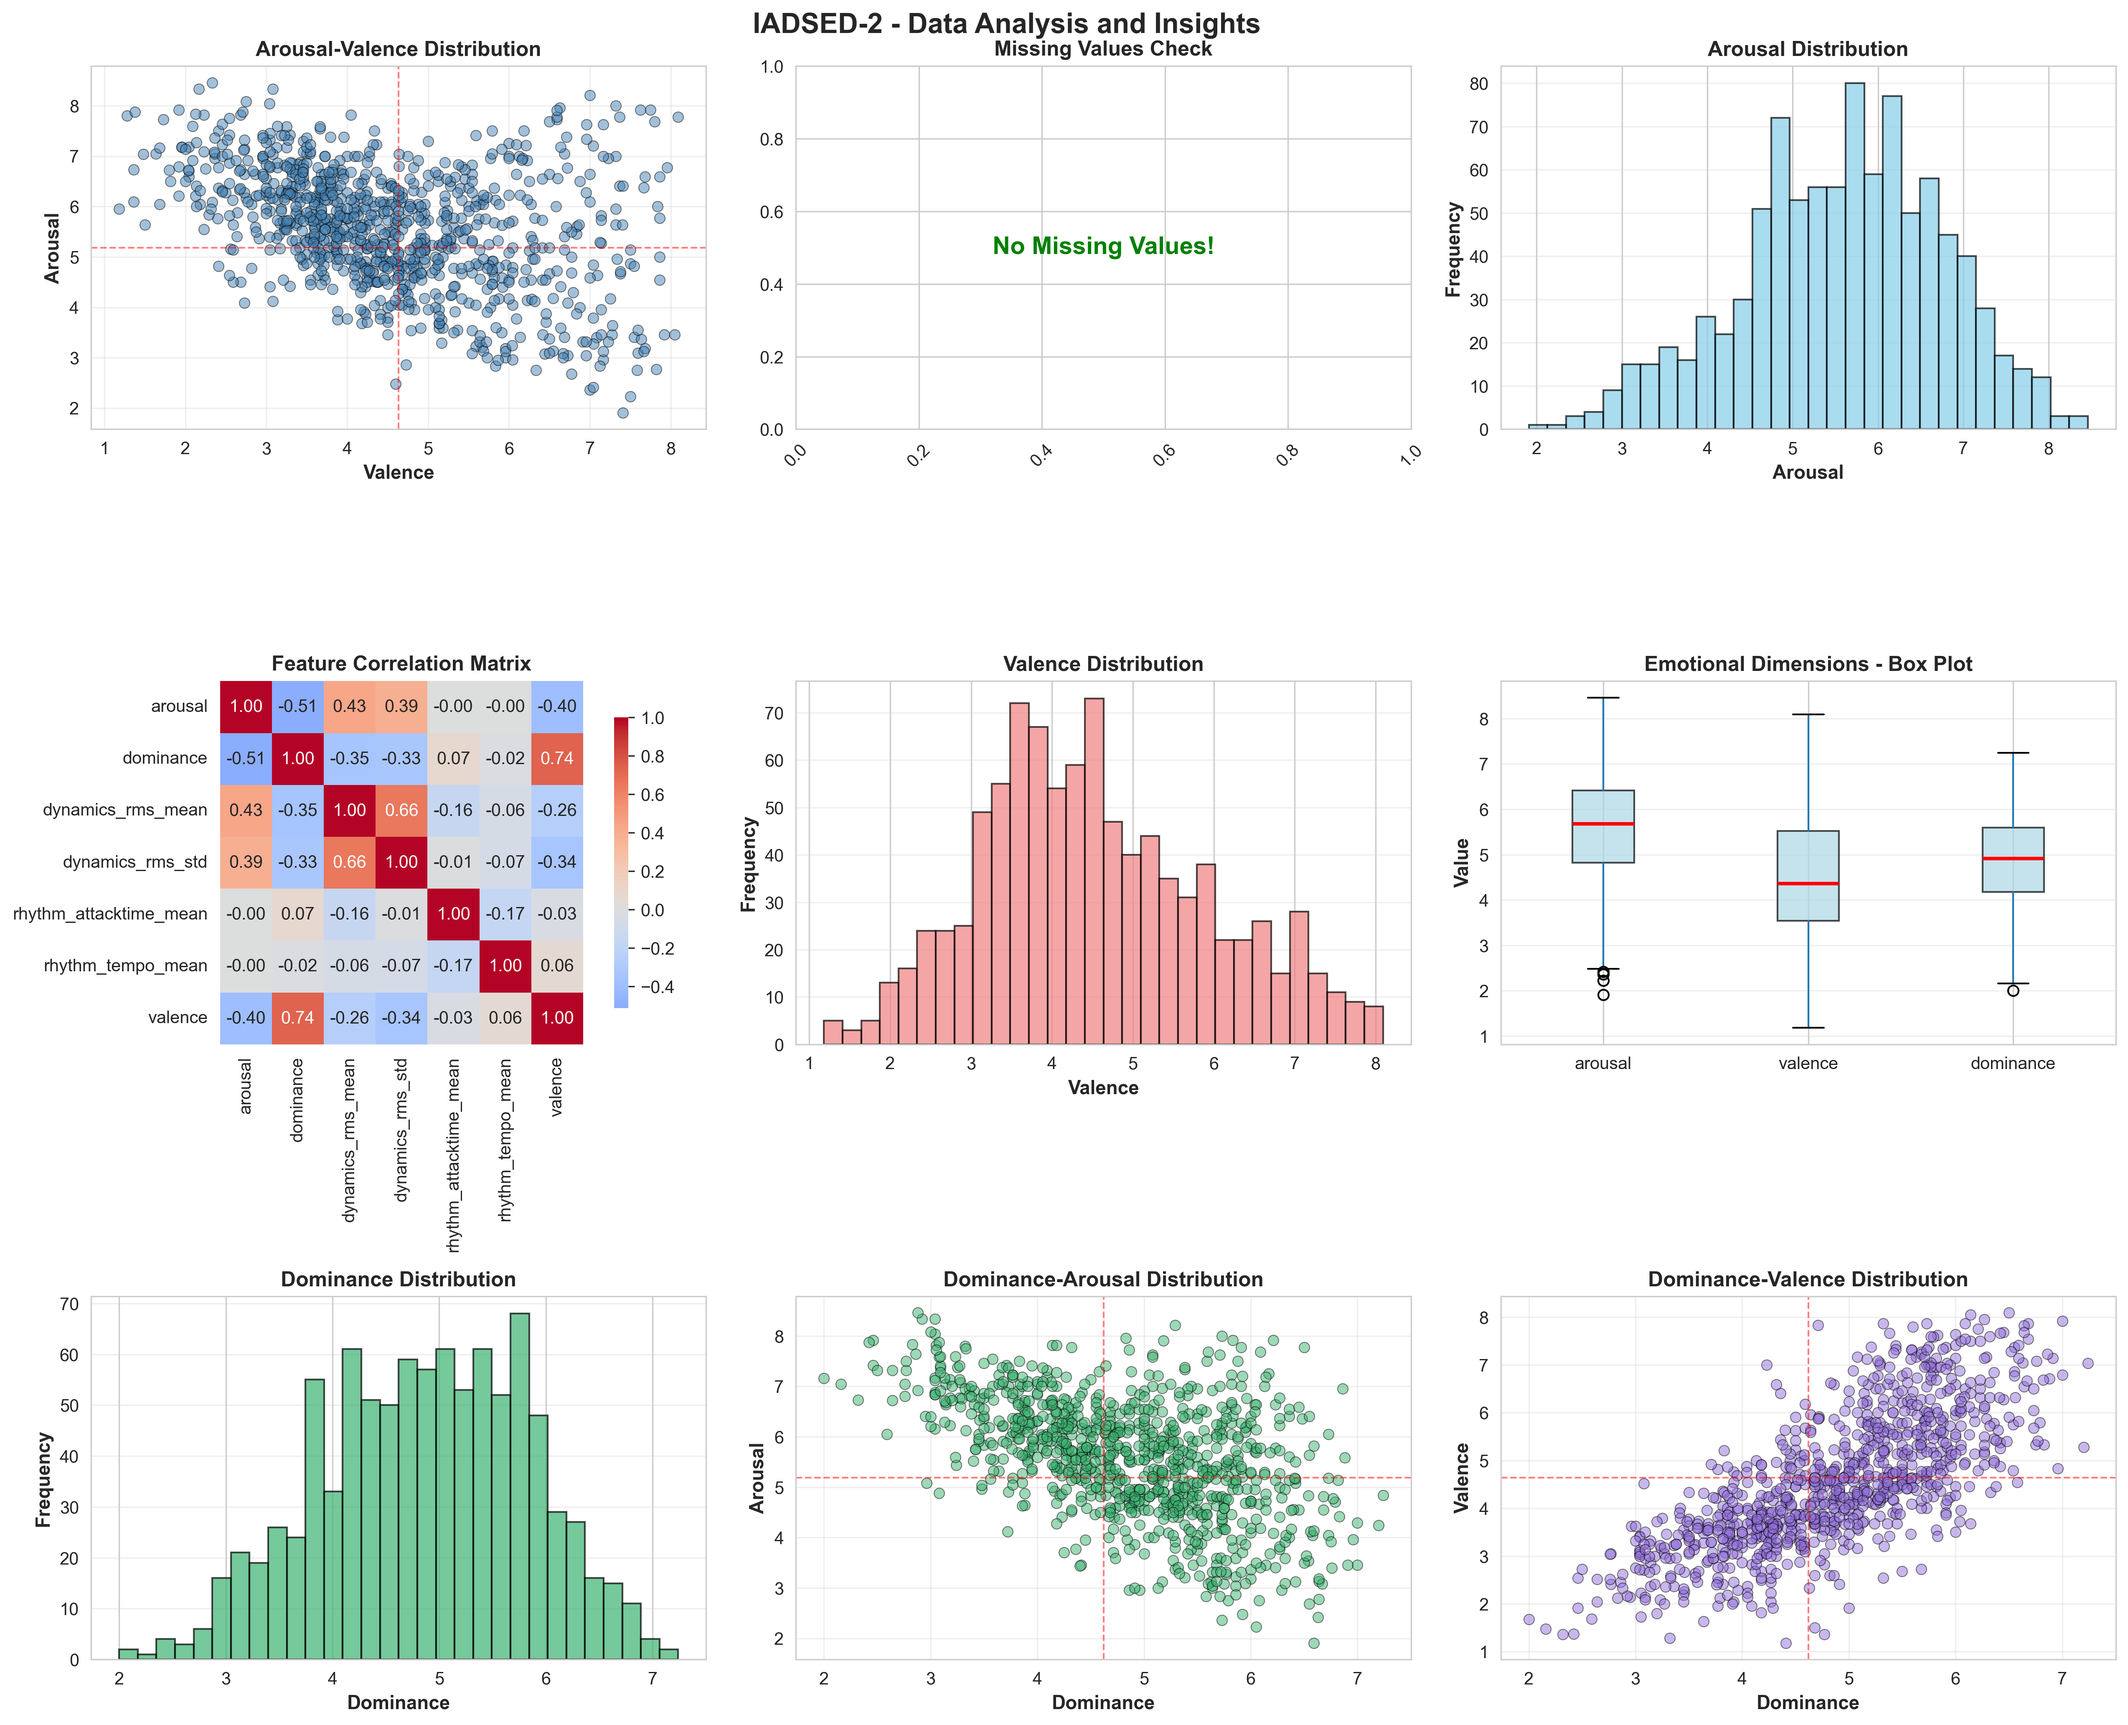
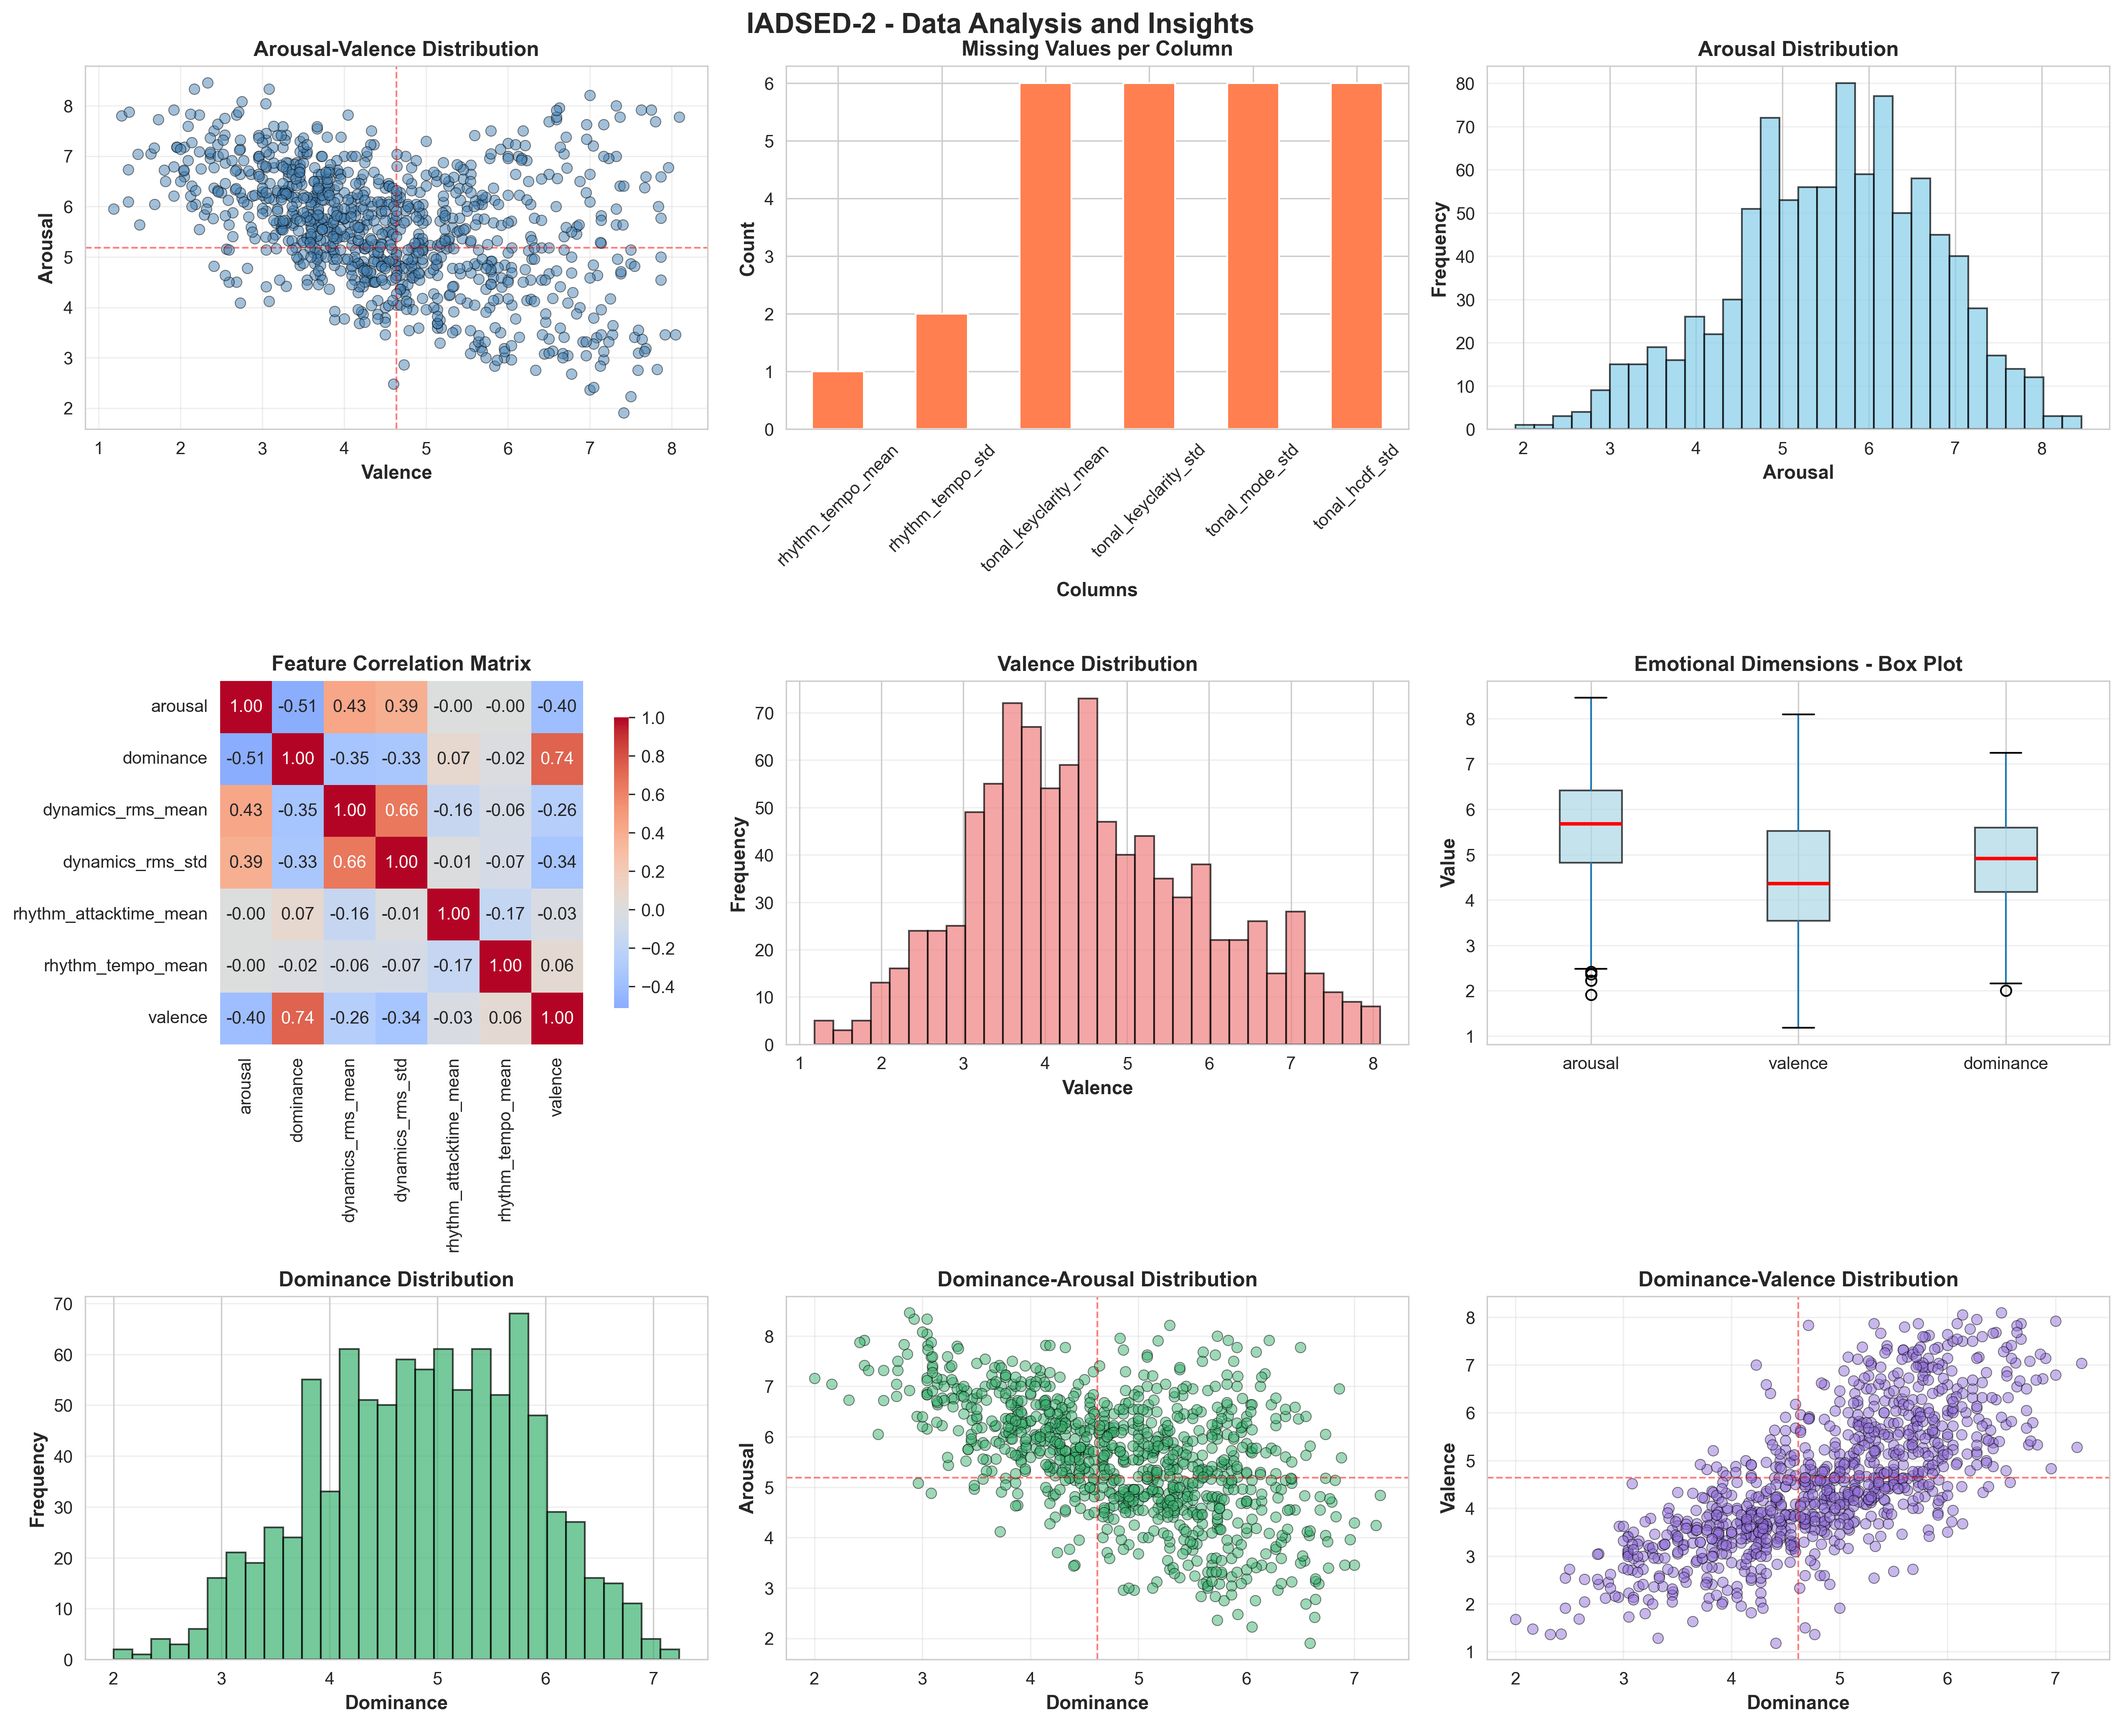
Fix missing values graph

diff --git a/Data/data_preprocessing.py b/Data/data_preprocessing.py
@@ -64,14 +64,21 @@ def clean_data(df, dataset_name):
     print(f"STEP 2: DATA CLEANING - {dataset_name}")
     print(f"{'=' * 80}")
     
-    # Check for missing values
+    # Create a copy for cleaning
+    df = df.copy()
+    
+    # Replace string representations of NaN with actual NaN
+    nan_strings = ['nan', 'NaN', 'NAN', 'N/A', 'n/a', 'NA', 'na', 'null', 'NULL', 'None', '']
+    df.replace(nan_strings, np.nan, inplace=True)
+    
+    # Check for missing values (including NaN)
     print(f"\nMissing values before cleaning:")
     missing_before = df.isnull().sum()
     missing_count = missing_before[missing_before > 0]
     
     if len(missing_count) > 0:
         print(missing_count)
-        print(f"\nTotal missing values: {df.isnull().sum().sum()}")
+        print(f"\nTotal missing values (including NaN): {df.isnull().sum().sum()}")
     else:
         print("No missing values found!")
     
@@ -145,8 +152,13 @@ def visualize_data(df, dataset_name):
     print(f"STEP 3: DATA VISUALIZATION - {dataset_name}")
     print(f"{'=' * 80}")
     
+    # Create a copy and replace string NaN values for accurate missing value detection
+    df_viz = df.copy()
+    nan_strings = ['nan', 'NaN', 'NAN', 'N/A', 'n/a', 'NA', 'na', 'null', 'NULL', 'None', '']
+    df_viz.replace(nan_strings, np.nan, inplace=True)
+    
     # Check if dominance exists to determine layout
-    has_dominance = 'dominance' in df.columns
+    has_dominance = 'dominance' in df_viz.columns
     
     # Create a figure with multiple subplots
     if has_dominance:
@@ -183,7 +195,7 @@ def visualize_data(df, dataset_name):
     
     # Visualization 2: Missing values heatmap
     ax2 = plt.subplot(rows, cols, 2)
-    numeric_cols = df.select_dtypes(include=[np.number]).columns[:20]  # First 20 numeric columns
+    numeric_cols = df.select_dtypes(include=[np.number]).columns[:79]  # First 20 numeric columns
     missing_data = df[numeric_cols].isnull().sum()
     if missing_data.sum() > 0:
         missing_data[missing_data > 0].plot(kind='bar', ax=ax2, color='coral')
@@ -546,8 +558,8 @@ def main():
     print(" " * 25 + "PROCESSING EMOSOUNDS DATASET")
     print("#" * 80)
     
+    visualize_data(emosounds_df, "EmoSounds-3")
     emosounds_cleaned = clean_data(emosounds_df, "EmoSounds-3")
-    visualize_data(emosounds_cleaned, "EmoSounds-3")
     emosounds_preprocessed = preprocess_data(emosounds_cleaned, "EmoSounds-3")
     emo_output = save_preprocessed_data(emosounds_preprocessed, "EmoSounds-3")
     
@@ -556,8 +568,8 @@ def main():
     print(" " * 25 + "PROCESSING IADSED DATASET")
     print("#" * 80)
     
+    visualize_data(iadsed_df, "IADSED-2")
     iadsed_cleaned = clean_data(iadsed_df, "IADSED-2")
-    visualize_data(iadsed_cleaned, "IADSED-2")
     iadsed_preprocessed = preprocess_data(iadsed_cleaned, "IADSED-2")
     iadsed_output = save_preprocessed_data(iadsed_preprocessed, "IADSED-2")
     
